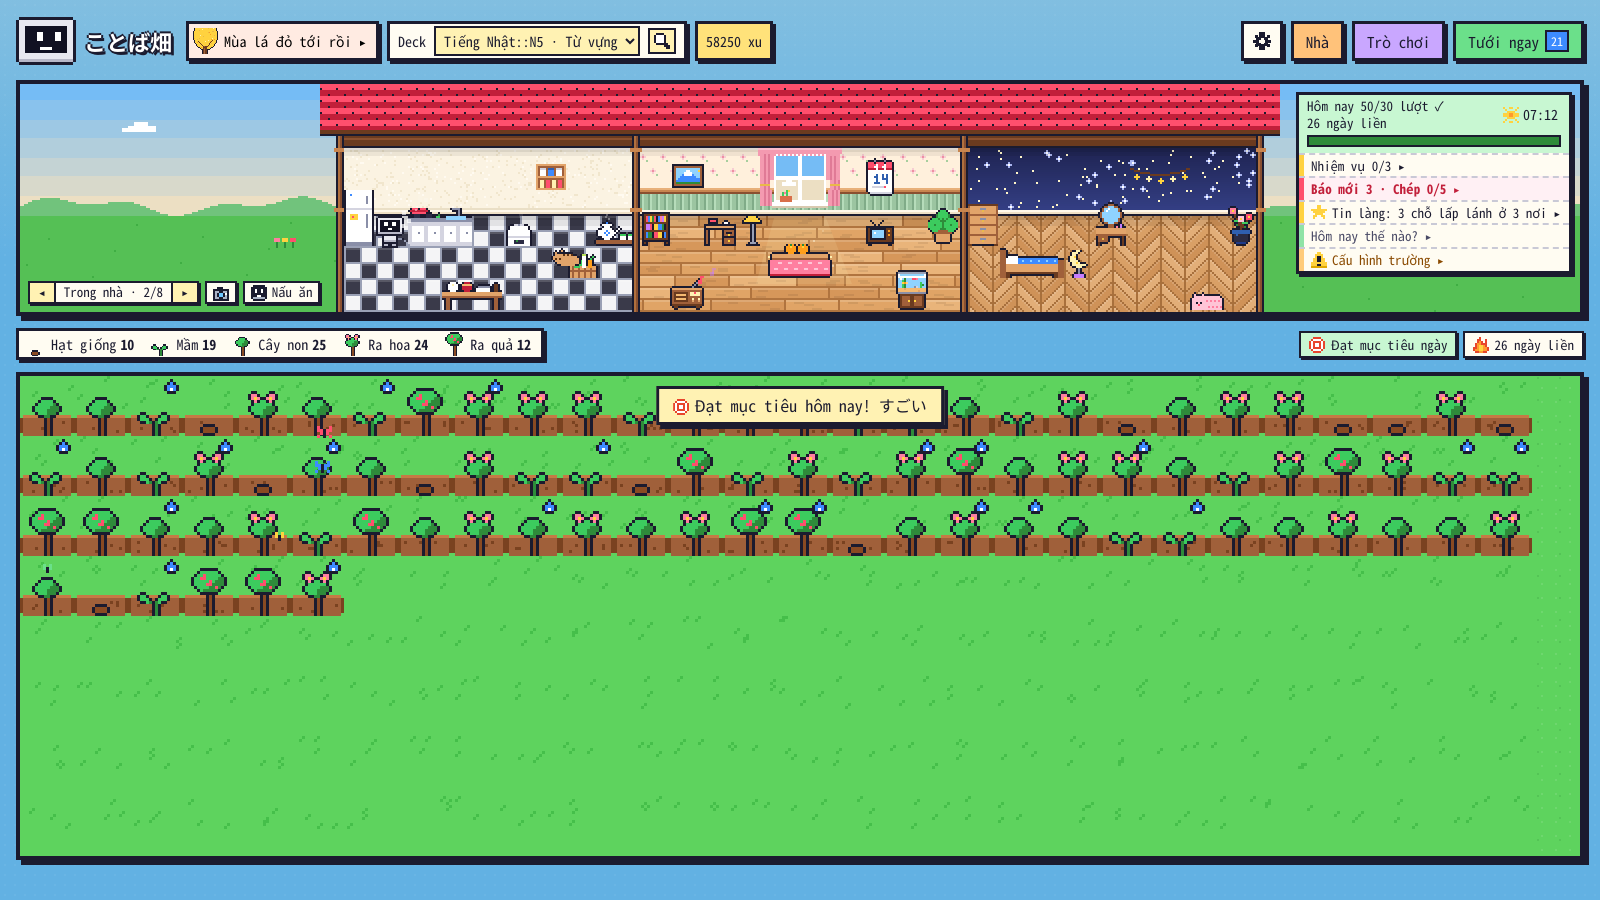
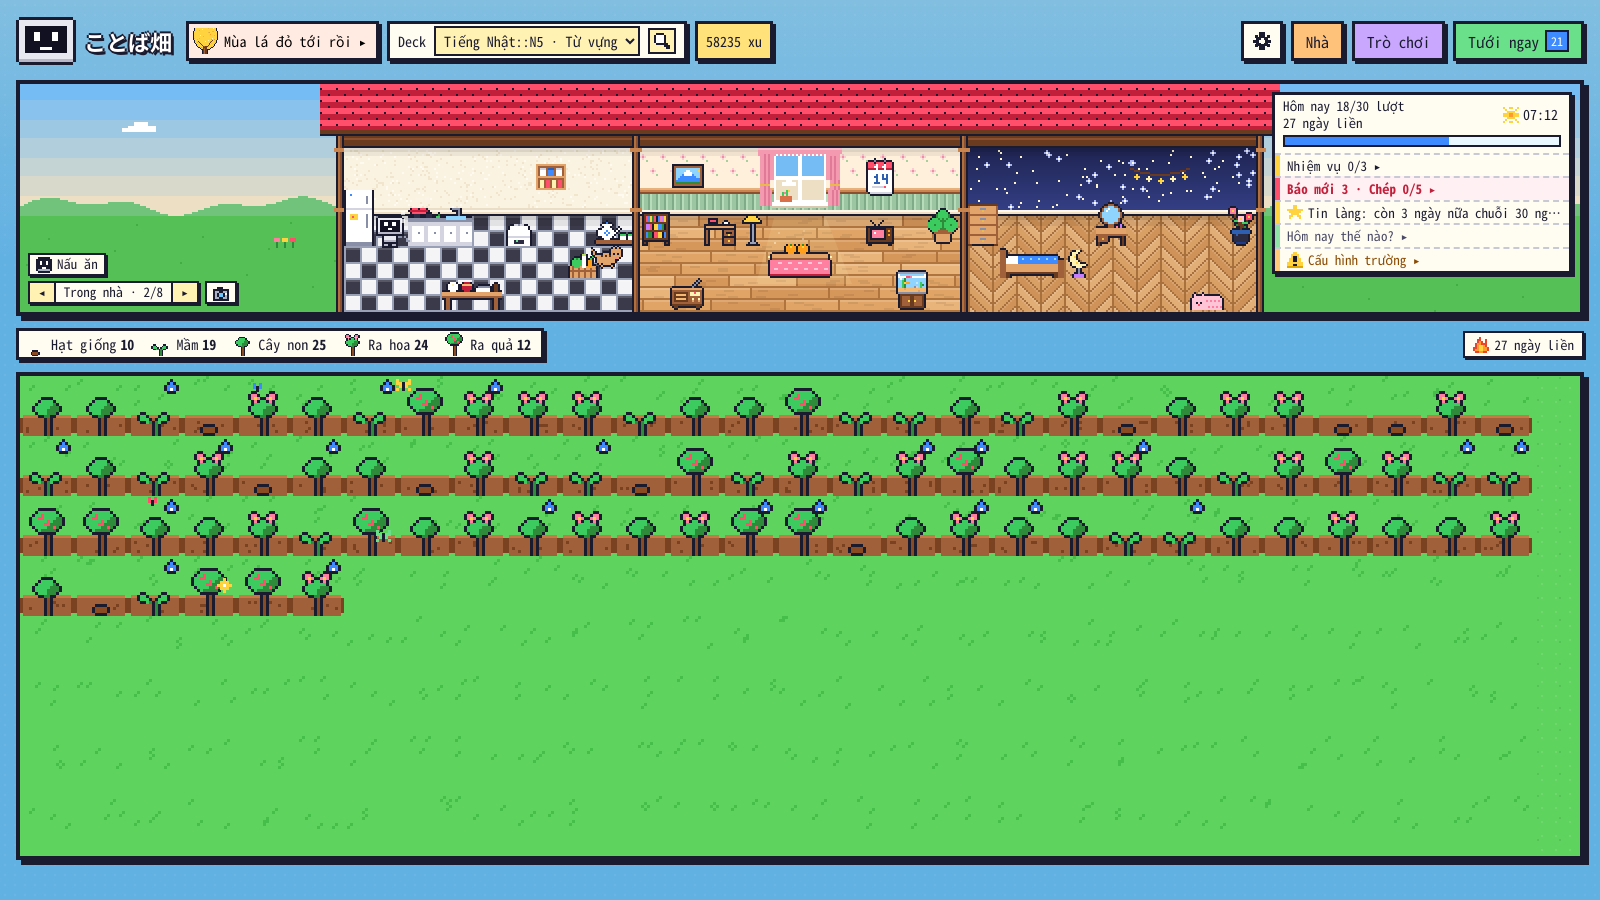
1.30.0: StackChan sinh hoạt, tường & sàn từng gian, việc riêng của vùng, giao diện ấm, kiểm tra trước phát hành
Tính năng (PHAT_TRIEN.md mục 2.6x; mọi chi tiết là Claude chọn, người dùng chưa xem — mục 7):
- StackChan sinh hoạt: 67 việc theo giờ trong vườn / đồ đã đặt / thời tiết / tháng (29 trong nhà, 11 ngoài sân,
  27 việc riêng của 6 vùng), mỗi việc một câu tiếng Nhật, Sổ sinh hoạt ở tab Album (life_core.py, web/life.js).
- Tường & sàn từng gian: 12 + 9 mẫu, mẫu tự vẽ 16×16 ở Xưởng (decor_core.py).
- Thú nuôi tìm món ưa thích; nền kem, ánh đèn tối, bụi nắng.

Sửa khi kiểm tra (docs/kiem_thu/1.30.0/BAO_CAO.md mục 3):
- lệnh cầu nối có JSON không phải đối tượng làm Anki bật hộp lỗi (_json_obj), craft_save sai kiểu;
- đặt / cất đồ → việc làm được đổi ngay, đồ đổi ô → StackChan đi theo;
- chip tên việc không che StackChan ở cửa sổ 1366 px, không cắt chữ;
- kịch bản cũ nhạy giờ / pha nhấp nháy (e2e_121, e2e_1258); add-on test tắt StackChan cho kịch bản cũ (LIFE_TEST_OFF).

Test mới: core/test_130.py (136), test_life.js (49), test_ngau_nhien.py, test_ban_cu.py, anki/e2e_130.js (76),
e2e_fuzz.js (bấm bừa), release_sync.js mở rộng (58). Kết quả trên gói: run_all.sh TẤT CẢ OK; Anki 26.9.4 30 kịch bản
+ e2e_1253 + release_sync + 3 bộ audit đạt; Anki 23.10.1 13 kịch bản + release_sync + 3 bộ audit đạt.

Claude-Session: https://claude.ai/code/session_015oKVRmeK9WGN2bWDw8UaEG

diff --git a/PHAT_TRIEN.md b/PHAT_TRIEN.md
@@ -359,7 +359,7 @@ Giờ thật / giờ game / cố định, 6 buổi trong ngày, thời tiết đ
 
 ### 2.6x Bản 1.30.0 — StackChan sinh hoạt, tường & sàn từng gian, việc riêng của từng vùng, giao diện ấm hơn (14/11)
 - Người dùng (nguyên văn ở mục 0): sinh hoạt trong nhà / ngoài nhà theo đồ nội thất và giờ; thiết kế bên trong nhà (sàn, giấy dán tường); mỗi vùng có hoạt động riêng ("mua vùng về chỉ để ngắm thì hơi phí"); giao diện ấm cúng, chill; kiểm tra kỹ + đánh giá phát hành. Tham khảo ý (người dùng: "chỉ lấy ý tưởng, chưa chốt"): `audit/release-review-2026-11-12:docs/danh_gia/ux-2026-11-13/mo_phong_ngoi_nha` — lấy ý "nhân vật sống theo đồ + theo giờ", không lấy thanh nhu cầu / đói / bẩn (trái "FOMO lành mạnh").
-- **StackChan sinh hoạt** (`life_core.py` mới, `web/life.js` mới — `GardenLife`): StackChan (linh vật đã có ở màn chào / hiệu ứng) thành **người ở trong nhà**. Mỗi khung **3 phút** chọn một việc trong **67 việc** theo: giờ trong vườn (kể cả giờ Cố định ở ⚙), đồ **đã đặt** ở cảnh, gian / vùng đã mở, thời tiết, tháng, thú nuôi ở nhà. Việc trong nhà nặng gấp 3 (người dùng: "ưu tiên trong nhà"), sân ×1,2, vùng ×1. Đi bộ tới món đồ (22 px / giây), làm việc với hình riêng (17 tư thế × đồ cầm tay: ấm trà, bình tưới, chổi, sách, bát cơm, cần câu, phao…), có hạt nhỏ (hơi nước, nốt nhạc, bong bóng, zzz). Không có đồ nào hợp giờ thì làm việc không cần đồ (tập thể dục sáng, quét nhà, đọc báo, ngắm ngoài cửa sổ, nghe mưa, ngắm sao) — nhà trống vẫn có sinh hoạt.
+- **StackChan sinh hoạt** (`life_core.py` mới, `web/life.js` mới — `GardenLife`): StackChan (linh vật đã có ở màn chào / hiệu ứng) thành **người ở trong nhà**. Mỗi khung **3 phút** chọn một việc trong **67 việc** theo: giờ trong vườn (kể cả giờ Cố định ở ⚙), đồ **đã đặt** ở cảnh, gian / vùng đã mở, thời tiết, tháng, thú nuôi ở nhà. Việc trong nhà nặng gấp 3 (người dùng: "ưu tiên trong nhà"), sân ×1,2, vùng ×1. Đi bộ tới món đồ (22 px / giây), làm việc với hình riêng (15 tư thế × 24 món cầm tay: ấm trà, bình tưới, chổi, sách, bát cơm, cần câu, phao…), có hạt nhỏ (hơi nước, nốt nhạc, bong bóng, zzz). Không có đồ nào hợp giờ thì làm việc không cần đồ (tập thể dục sáng, quét nhà, đọc báo, ngắm ngoài cửa sổ, nghe mưa, ngắm sao) — nhà trống vẫn có sinh hoạt.
   - **Trong nhà (29)**: Ngủ 22:30–5:30 (cần giường / futon; có giường thì khung giờ đó **chỉ** ngủ; ⚙ "Cố định: Ban đêm" là 22:00 nên chưa ngủ — muốn xem cả ngày thì dùng Giờ game), Tập thể dục sáng, Soi gương, Thay đồ, Pha trà, Nấu cơm, Nấu ăn, Ăn cơm, Rửa bát, Ăn quà vặt, Tưới cây, Quét nhà, Học bài, Đọc sách, Đọc báo, Xem TV, Nghe radio, Chơi đàn, Cho cá ăn, Sưởi lửa, Ngồi bàn sưởi (tháng 10–3), Ngủ trưa, Bật đèn, Xem lịch, Ngắm tranh, Viết nhật ký, Chơi với thú cưng (khi có thú ở nhà), Nghe mưa (khi mưa), Ngắm ngoài cửa sổ.
   - **Sân vườn (11)**: Tưới vườn, Lấy thư, Ngồi ghế nghỉ, Chơi xích đu, Cho cá koi ăn, Múc nước, Quét lá rụng (tháng 10–12), Thắp đèn, Ngắm hoa anh đào (tháng 3–4), Đắp người tuyết (khi tuyết), Ngắm sao (20:00–22:30, trời khô).
   - **Việc riêng của từng vùng (27)** — chỉ có khi đã mở vùng: **Bãi biển** Tắm biển (bơi phao ngoài sóng), Xây lâu đài cát, Câu cá, Ngắm hoàng hôn, Nghỉ dưới ô · **Suối nước nóng** Tắm suối nước nóng (ngâm trong bồn đá nếu đã đặt *Bồn tắm lộ thiên*, không thì ngâm ở hồ của cảnh), Uống sữa sau khi tắm, Ngắm tuyết · **Đền trên núi** Viếng đền, Rửa tay, Rung chuông đền, Viết thẻ ước · **Phố lễ hội** Dạo lễ hội, Ăn ở quầy hàng, Ăn kẹo táo, Vớt cá vàng, Đánh trống, Xem pháo hoa · **Rừng tre** Đi dạo, Đào măng (tháng 3–5), Ngồi thiền, Ngắm đom đóm (tháng 5–8) · **Ga làng quê** Đợi tàu, Vẫy tay chào tàu, Mua nước ở máy, Lau xe đạp · Ngâm chân (bồn ashiyu đặt ở đâu làm ở đó).

diff --git a/tests/README.md b/tests/README.md
@@ -128,7 +128,15 @@ ANKI_PY=~/.venv-anki/bin/python tests/anki/run_ui.sh /tmp/kb_src/kotoba_batake /
 ```
 Cần Node ≥ 22 (có sẵn `fetch` và `WebSocket`). Cổng: `KB_CDP_PORT` (9333), `KB_CTRL_PORT` (9444). `kill_anki.sh` tắt Anki đang chạy từ các script này.
 
-## Kết quả lần chạy gần nhất (bản 1.28.0, 13/11/2026) — sửa 9 lỗi audit 12/11, nhặt đồ theo vùng, gánh hàng rong
+## Kết quả lần chạy gần nhất (bản 1.30.0, 14/11/2026) — StackChan sinh hoạt, tường & sàn, kiểm tra trước phát hành
+- `run_all.sh` (`ANKI_PY` = venv aqt 26.9.4; 42 bộ, có `core/test_130.py` 136/136, `test_life.js` 49/49, `test_ngau_nhien.py`, `test_ban_cu.py`, `core_audit.py` 779/779) **TẤT CẢ OK**, trên thư mục mã nguồn và trên gói đã đóng.
+- Anki 26.9.4, chạy trên **gói đã giải nén**: 30 kịch bản `run_versions.sh` (3 slot song song) đều đạt — `e2e_130` 76/76, `e2e_fuzz` 6/6, `e2e_128` 72/72, `audit_full` 183/183, `audit_edge` 58/58, `audit.js` chỉ 4 cờ cố ý cũ; `e2e_1253` (run_ui.sh, chạy riêng) 39/39; `release_sync` 58/58; `audit_20261112/ui_audit` 49/49, `lifecycle_audit` 10/10, `e2e_128_fix` 26/26.
+- Anki 23.10.1 (cùng gói): `e2e_130` 76/76, `e2e_128` 72/72, `e2e_fuzz` 6/6, `audit_full` 183/183, `e2e_tour`, `e2e_117`, `e2e_121`, `e2e_124`, `e2e_125`, `e2e_1258`, `e2e_1259`, `e2e_126`, `e2e_1261`, `release_sync` 58/58, `ui_audit` 49/49, `lifecycle_audit` 10/10, `e2e_128_fix` 26/26 đều đạt. Bảng đầy đủ + đánh giá phát hành: `docs/kiem_thu/1.30.0/BAO_CAO.md`.
+- **Chạy song song vừa phải**: `ui_audit` (màn chào tự đóng sau ~4 giây) và `e2e_1253` (đo ms / khung) nhạy với tải máy — chạy cùng lúc 4–7 Anki thì có lần trượt (29/30; 12,8 ms), chạy riêng thì đạt. Tối đa 3 slot `run_versions.sh` song song; hai kịch bản này chạy riêng.
+- **Kịch bản cũ không có StackChan**: `zz_kbtest` đặt `kb.LIFE_TEST_OFF = True` (không vẽ, không chip, không ghi sổ). Kịch bản mới cần StackChan thì đặt `kb.LIFE_TEST_OFF = False` **trước** khi mở vườn (như `e2e_130.js`, `e2e_fuzz.js`, `release_sync.js`, `shots_130.js`, `audit.js`).
+- Kịch bản đã làm cho chắc ở 1.30: `e2e_121` (đom đóm: lấy lúc sáng nhất trong 2,5 giây thay cho một lần chụp), `e2e_1258` (đèn trời: giữ trời 10 giờ — trước đây trượt khi chạy test ban đêm).
+
+## Lần chạy trước (bản 1.28.0, 13/11/2026) — sửa 9 lỗi audit 12/11, nhặt đồ theo vùng, gánh hàng rong
 - `run_all.sh` (`ANKI_PY` = venv aqt 26.9.4, có `core/test_128.py` 93/93 + `audit_20261112/core_audit.py` 779/779) **TẤT CẢ OK**, trên thư mục mã nguồn và trên gói đã đóng.
 - Anki 26.9.4: mọi kịch bản `run_versions.sh` (3 slot song song) đạt — `e2e_128` 72/72, `audit_full` 183/183, `audit_edge` 58/58, `audit.js` chỉ 4 cờ cố ý cũ; `e2e_1253` (run_ui.sh) 39/39; `release_sync` 47/47; `audit_20261112/ui_audit` 49/49, `lifecycle_audit` 10/10, `e2e_128_fix` 26/26.
 - Anki 23.10.1: `e2e_128` 70/70, `e2e_1261`, `e2e_126`, `e2e_tour`, `e2e_1259`, `e2e_117`, `e2e_121`, `release_sync` 47/47, `ui_audit` 49/49, `lifecycle_audit` 10/10, `e2e_128_fix` 26/26 đều đạt. Bảng đầy đủ: `docs/kiem_thu/1.28.0/BAO_CAO.md`.
